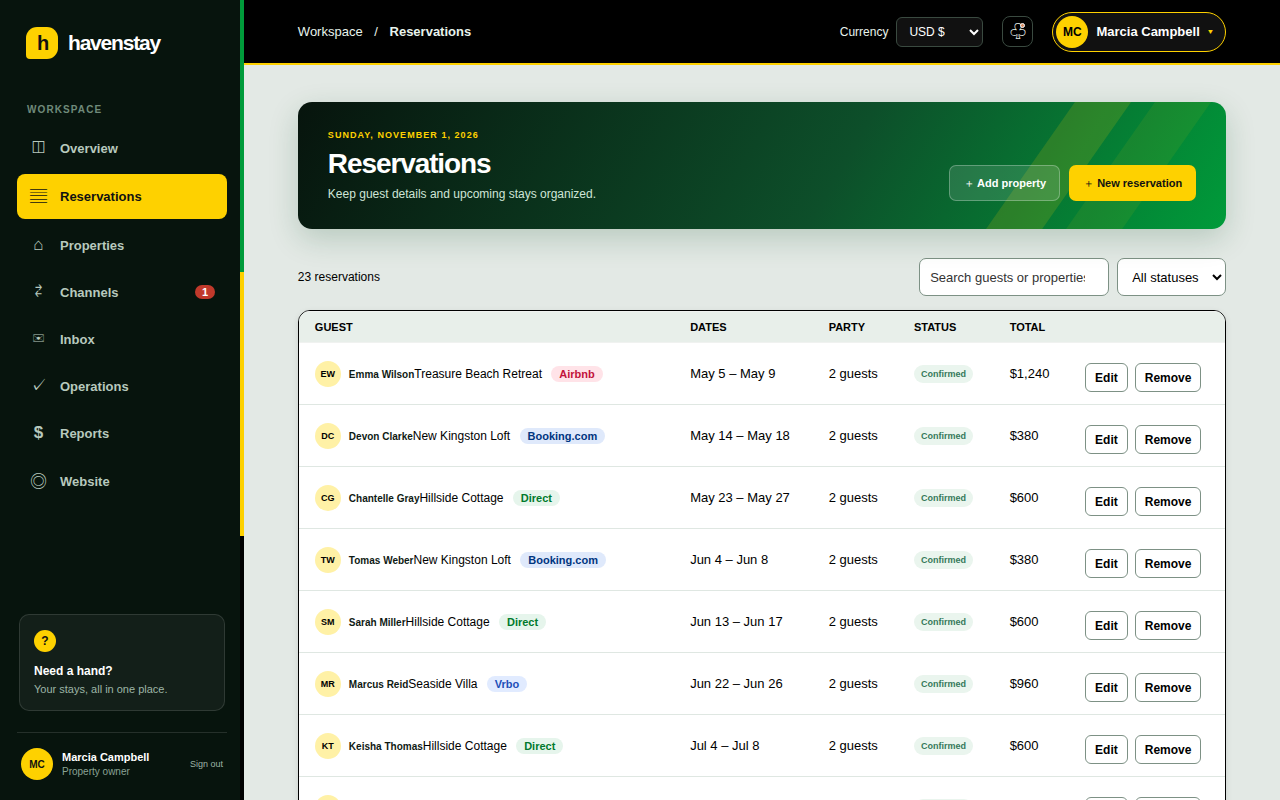
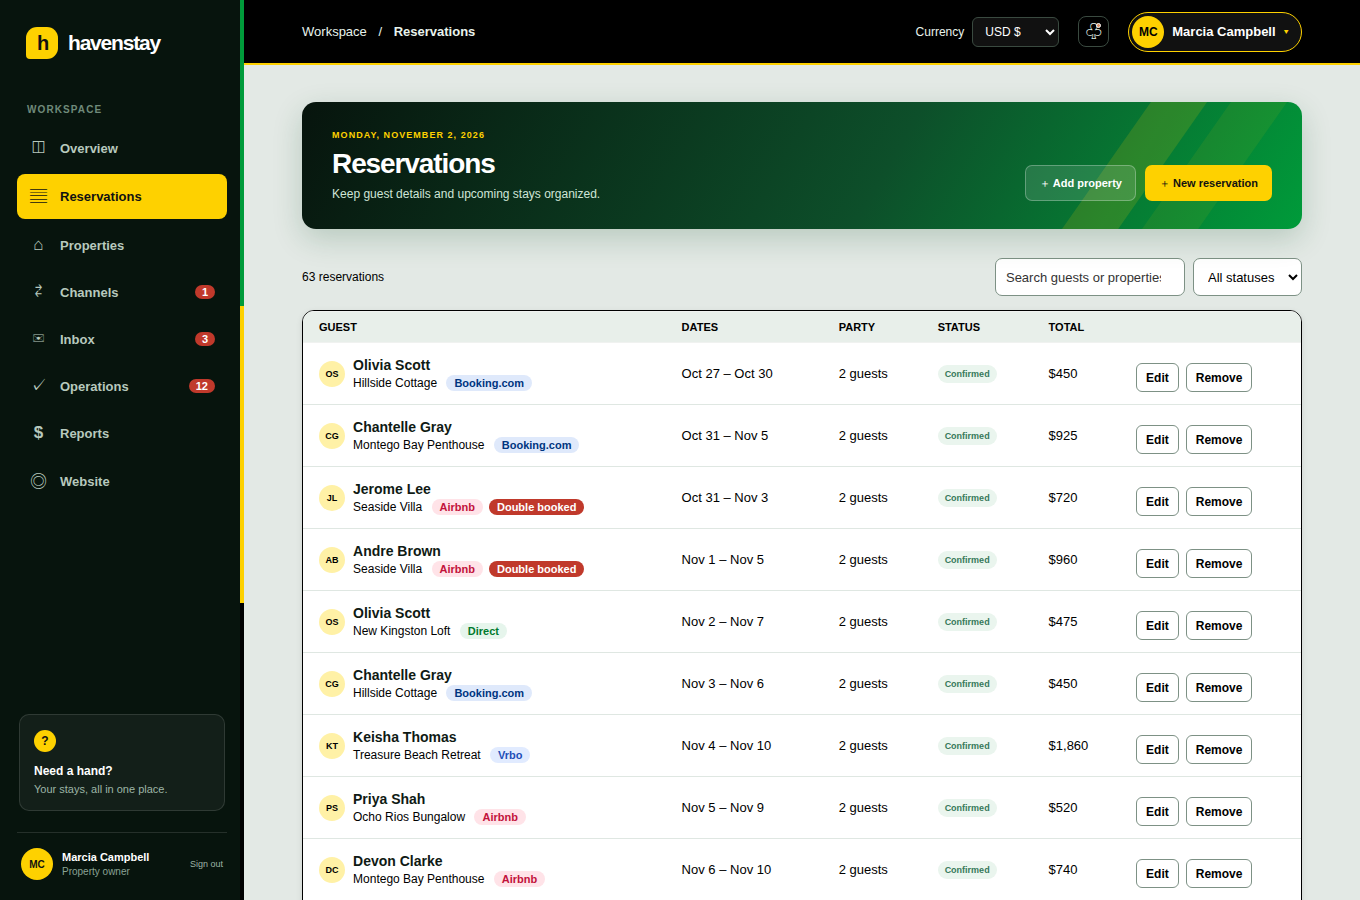
Landing: larger dashboard screenshots with explanations; fix calendar colours and guest cell layout

diff --git a/index.html b/index.html
@@ -119,13 +119,16 @@
       </section>
 
       <section id="screens" class="section dark">
-        <div class="section-head"><p class="kicker">Inside the landlord dashboard</p><h2>Your whole business, clear at a glance</h2><p>Know your income, your occupancy and what needs attention today. Real screens, shown with sample data.</p></div>
-        <div class="shots">
-          <figure><a href="/screenshots/overview.png" target="_blank" rel="noopener"><img src="/screenshots/overview.png" alt="Dashboard overview with revenue and bookings charts"></a><figcaption><b>Overview</b> Revenue, expenses, channel mix and occupancy at a glance.</figcaption></figure>
-          <figure><a href="/screenshots/channels.png" target="_blank" rel="noopener"><img src="/screenshots/channels.png" alt="Multi-calendar with double booking alert"></a><figcaption><b>Channels</b> One calendar for every platform, with double-booking alerts.</figcaption></figure>
-          <figure><a href="/screenshots/reservations.png" target="_blank" rel="noopener"><img src="/screenshots/reservations.png" alt="Reservations list"></a><figcaption><b>Reservations</b> Every guest and stay, tagged by source.</figcaption></figure>
-          <figure><a href="/screenshots/reports.png" target="_blank" rel="noopener"><img src="/screenshots/reports.png" alt="Owner reports with occupancy and ADR"></a><figcaption><b>Reports</b> Occupancy, ADR, expenses and owner statements.</figcaption></figure>
+        <div class="section-head"><p class="kicker">Inside the landlord dashboard</p><h2>See exactly what you get</h2><p>Real screens from the dashboard, shown with sample data. Click any screen to view it full size.</p></div>
+        <div class="showcase">
+          <article class="show-row"><a class="show-img" href="/screenshots/calendar.png" target="_blank" rel="noopener"><img src="/screenshots/calendar.png" alt="Multi-property calendar showing colour-coded bookings and a double-booking alert" loading="lazy"></a><div class="show-text"><span class="show-num">01</span><h3>Every property on one calendar</h3><p>See all your properties side by side, colour-coded by platform. If two stays overlap, you're warned before a guest ever arrives.</p><ul><li>Airbnb, Booking.com, Vrbo and direct in one view</li><li>Instant double-booking alerts</li></ul></div></article>
+          <article class="show-row flip"><a class="show-img" href="/screenshots/reservations.png" target="_blank" rel="noopener"><img src="/screenshots/reservations.png" alt="Reservations list with bookings from Airbnb, Booking.com, Vrbo and direct" loading="lazy"></a><div class="show-text"><span class="show-num">02</span><h3>Bookings from every platform, in one list</h3><p>Reservations arrive from Airbnb, Booking.com and Vrbo through calendar sync, next to your direct bookings. Each one is tagged by source.</p><ul><li>Automatic calendar sync</li><li>Guest, dates, payout and status at a glance</li></ul></div></article>
+          <article class="show-row"><a class="show-img" href="/screenshots/inbox.png" target="_blank" rel="noopener"><img src="/screenshots/inbox.png" alt="Guest inbox with a conversation thread and automated messages" loading="lazy"></a><div class="show-text"><span class="show-num">03</span><h3>Guest messages, handled</h3><p>Every guest conversation in one inbox. Confirmations, arrival tips and review requests go out automatically, so you reply less and guests feel looked after.</p><ul><li>Automated confirmation and pre-arrival messages</li><li>Reply templates for common questions</li></ul></div></article>
+          <article class="show-row flip"><a class="show-img" href="/screenshots/operations.png" target="_blank" rel="noopener"><img src="/screenshots/operations.png" alt="Cleaning and maintenance task board assigned to staff" loading="lazy"></a><div class="show-text"><span class="show-num">04</span><h3>Cleaning schedules that run themselves</h3><p>A turnover clean is created after every checkout and assigned to your crew. Notify them on WhatsApp and see what's overdue at a glance.</p><ul><li>Tasks created from checkouts</li><li>Assign cleaners and maintenance staff</li></ul></div></article>
+          <article class="show-row"><a class="show-img" href="/screenshots/reports.png" target="_blank" rel="noopener"><img src="/screenshots/reports.png" alt="Financial report with revenue, occupancy, ADR and net income per property" loading="lazy"></a><div class="show-text"><span class="show-num">05</span><h3>Financial reports you can trust</h3><p>Revenue, occupancy, ADR, expenses and net income, for the whole portfolio or one property at a time. Know exactly what each place earns.</p><ul><li>Monthly view by property</li><li>Log expenses and see true net income</li></ul></div></article>
+          <article class="show-row flip"><a class="show-img" href="/screenshots/statement.png" target="_blank" rel="noopener"><img src="/screenshots/statement.png" alt="Owner statement showing gross revenue, management fee, expenses and net payout" loading="lazy"></a><div class="show-text"><span class="show-num">06</span><h3>Owner statements in one click</h3><p>Managing homes for other owners? Generate a clean monthly statement with your fee, their expenses and the net payout, ready to print or save as PDF.</p><ul><li>Your management fee applied automatically</li><li>Print or save as PDF</li></ul></div></article>
         </div>
+        <p class="show-cta"><a class="btn btn-gold" href="/app.html">Get Started Free</a> <a class="btn btn-ghost-dark" href="#demo">Explore Live Demo</a></p>
       </section>
 
       <section id="features" class="section">

diff --git a/public/landing.css b/public/landing.css
@@ -171,3 +171,19 @@ details p { margin: 10px 0 0; color: var(--muted); }
 
 .nav-links a, .nav-cta a { white-space: nowrap; }
 .hero h1 { font-size: clamp(34px, 4.6vw, 54px); }
+
+.showcase { max-width: 1240px; margin: 0 auto; display: grid; gap: 64px; }
+.show-row { display: grid; grid-template-columns: minmax(0, 1.65fr) minmax(0, 1fr); gap: 40px; align-items: center; }
+.show-row.flip { grid-template-columns: minmax(0, 1fr) minmax(0, 1.65fr); }
+.show-row.flip .show-img { order: 2; }
+.show-img { display: block; border-radius: 14px; overflow: hidden; border: 1px solid #1f3a2b; border-top: 3px solid var(--gold); box-shadow: 0 24px 60px rgba(0, 0, 0, .45); background: #0b1a12; }
+.show-img img { display: block; width: 100%; height: auto; transition: transform .3s; }
+.show-img:hover img { transform: scale(1.02); }
+.show-num { display: inline-block; color: var(--gold); font-weight: 800; font-size: 14px; letter-spacing: .12em; margin-bottom: 8px; }
+.show-text h3 { margin: 0 0 12px; font-size: 28px; line-height: 1.15; color: #fff; }
+.show-text p { margin: 0 0 16px; color: #cfe5d7; font-size: 17px; line-height: 1.6; }
+.show-text ul { list-style: none; margin: 0; padding: 0; display: grid; gap: 8px; }
+.show-text li { color: #fff; font-size: 15px; padding-left: 26px; position: relative; }
+.show-text li::before { content: "✓"; position: absolute; left: 0; color: var(--gold); font-weight: 800; }
+.show-cta { text-align: center; margin: 56px 0 0; display: flex; gap: 12px; justify-content: center; flex-wrap: wrap; }
+@media (max-width: 900px) { .show-row, .show-row.flip { grid-template-columns: 1fr; gap: 18px; } .show-row.flip .show-img { order: 0; } .showcase { gap: 44px; } .show-text h3 { font-size: 24px; } }

diff --git a/styles.css b/styles.css
@@ -649,6 +649,12 @@ td { border-color: #dfe7e2; font-size: 13px; color: #1d2a23; }
 .bubble-in { background: #e3e9e5; }
 .bubble-meta { color: #4b5a51; }
 .cal-cell { background: #dde5e0; }
+.cal-cell.src-direct { background: #27785e; }
+.cal-cell.src-airbnb { background: #ff5a5f; }
+.cal-cell.src-vrbo { background: #3b6fd8; }
+.cal-cell.src-booking { background: #003580; }
+.cal-cell.src-other { background: #8a79c9; }
+.cal-cell.conflict { background: repeating-linear-gradient(45deg, #c0392b, #c0392b 4px, #f4b400 4px, #f4b400 8px); }
 .cal-day { color: #3d4d43; }
 .site-form { padding: 0 18px 18px; } .site-actions { margin-top: 16px; }
 
@@ -746,3 +752,6 @@ td { border-color: #dfe7e2; font-size: 13px; color: #1d2a23; }
 .plan-pill.active { background: #d9f2e3; }
 .plan-pill.expired { background: #fde2e0; }
 .plan-usage { color: #000; }
+.guest-cell > span:last-child { display: flex; flex-direction: column; gap: 2px; }
+.guest-name { display: block; font-size: 14px; }
+.guest-property { display: block; margin-top: 0; font-size: 12px; }

diff --git a/README.md b/README.md
@@ -104,7 +104,7 @@ Edit a property to upload up to 6 photos (first is the cover) and add amenities.
 Open the avatar menu → **My profile** (photo, name, business, phone, location, bio) or **Settings** (display currency, start page, password, email, data export, sign out of other devices). Details are stored in your Supabase auth user metadata; profile photos use the public `property-photos` bucket (run `supabase/schema.sql`).
 
 ## Landing page demo
-The landing page (`index.html`) embeds a live sample booking site (`/book.html?demo=1`, sample data in `demo-data.js`, no backend calls), dashboard screenshots in `public/screenshots/`, a feature list, and WhatsApp links (`wa.me/18765497399`) including a "Request a demo" button.
+The landing page (`index.html`) embeds a live sample booking site (`/book.html?demo=1`, sample data in `demo-data.js`, no backend calls), six large dashboard screenshots with explanations (calendar, reservations, inbox, operations, reports, owner statement) in `public/screenshots/`, a feature list, and WhatsApp links (`wa.me/18765497399`) including a "Request a demo" button.
 
 ## Subscriptions
 Run `supabase/steps/8-subscriptions.sql`. Each signup gets a `pending` row in `subscriptions`; the customer's chosen plan is saved via `choose_plan()`. After a bank transfer, open Table Editor > `subscriptions` and set `status` = `active` and `paid_until`. Property limits per plan are enforced by a database trigger, and the app shows a plan card in Settings plus renewal banners.
